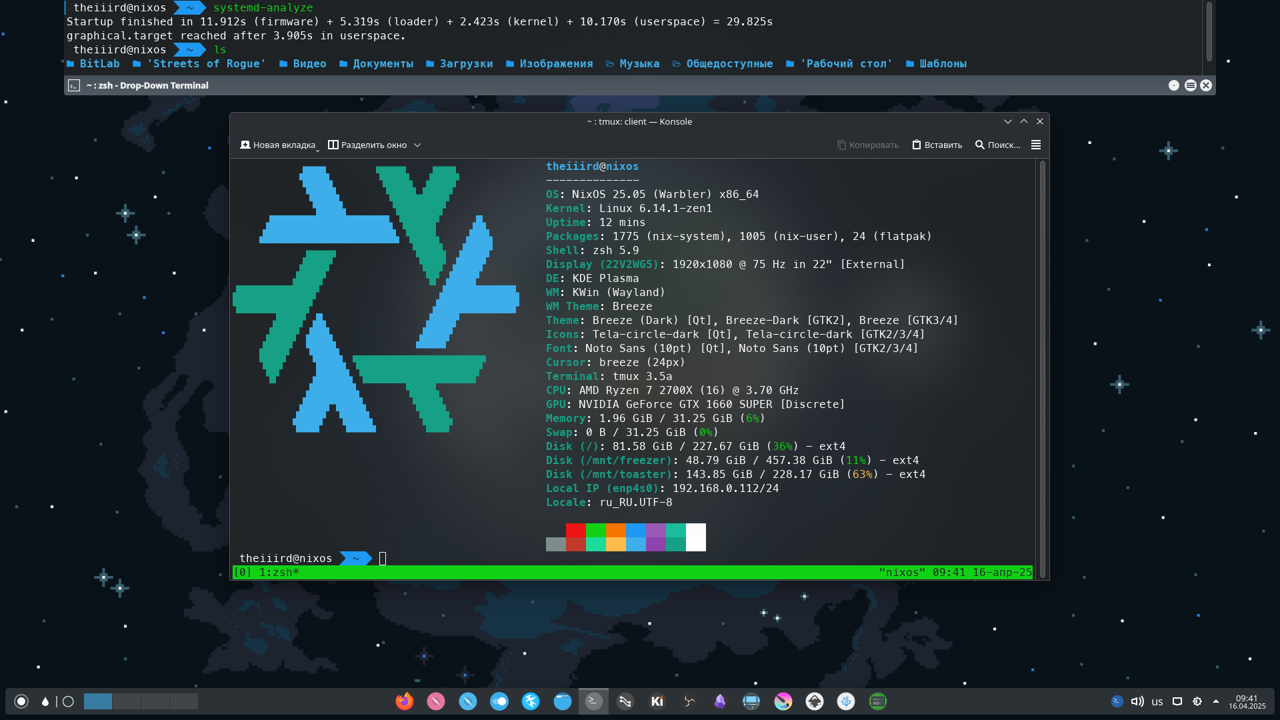
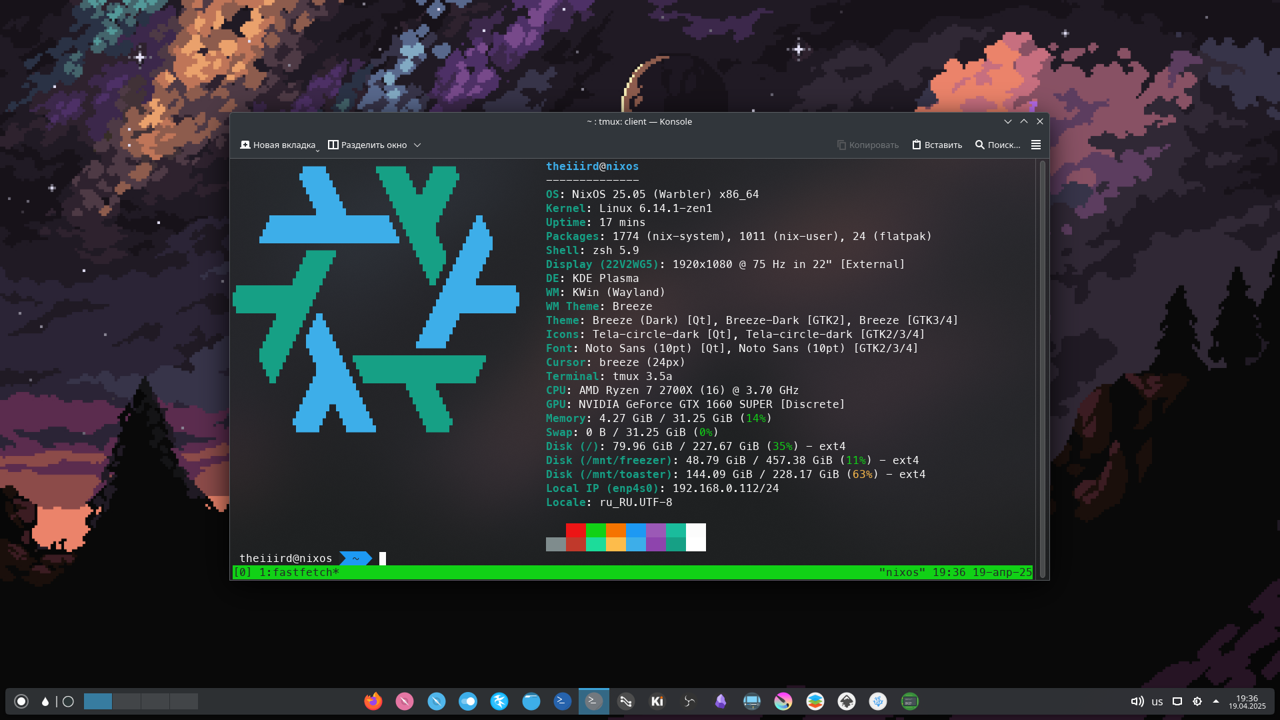
Create screenshot-kde-2.png

diff --git a/screenshots/README.md b/screenshots/README.md
@@ -1,0 +1,17 @@
+# ❄ NixOS Workstation screenshots
+
+NixOS Screenshot Gallery
+
+## 🌼 GNOME
+
+<p align="center">
+  <img alt="GNOME 1" src="screenshots/screenshot-gnome-1.png"/>
+  <img alt="GNOME 2" src="screenshots/screenshot-gnome-2.png"/>
+</p>
+
+## ⚙ KDE
+
+<p align="center">
+  <img alt="KDE 1" src="screenshots/screenshot-kde-1.png"/>
+  <img alt="KDE 2" src="screenshots/screenshot-kde-2.png"/>
+</p>
